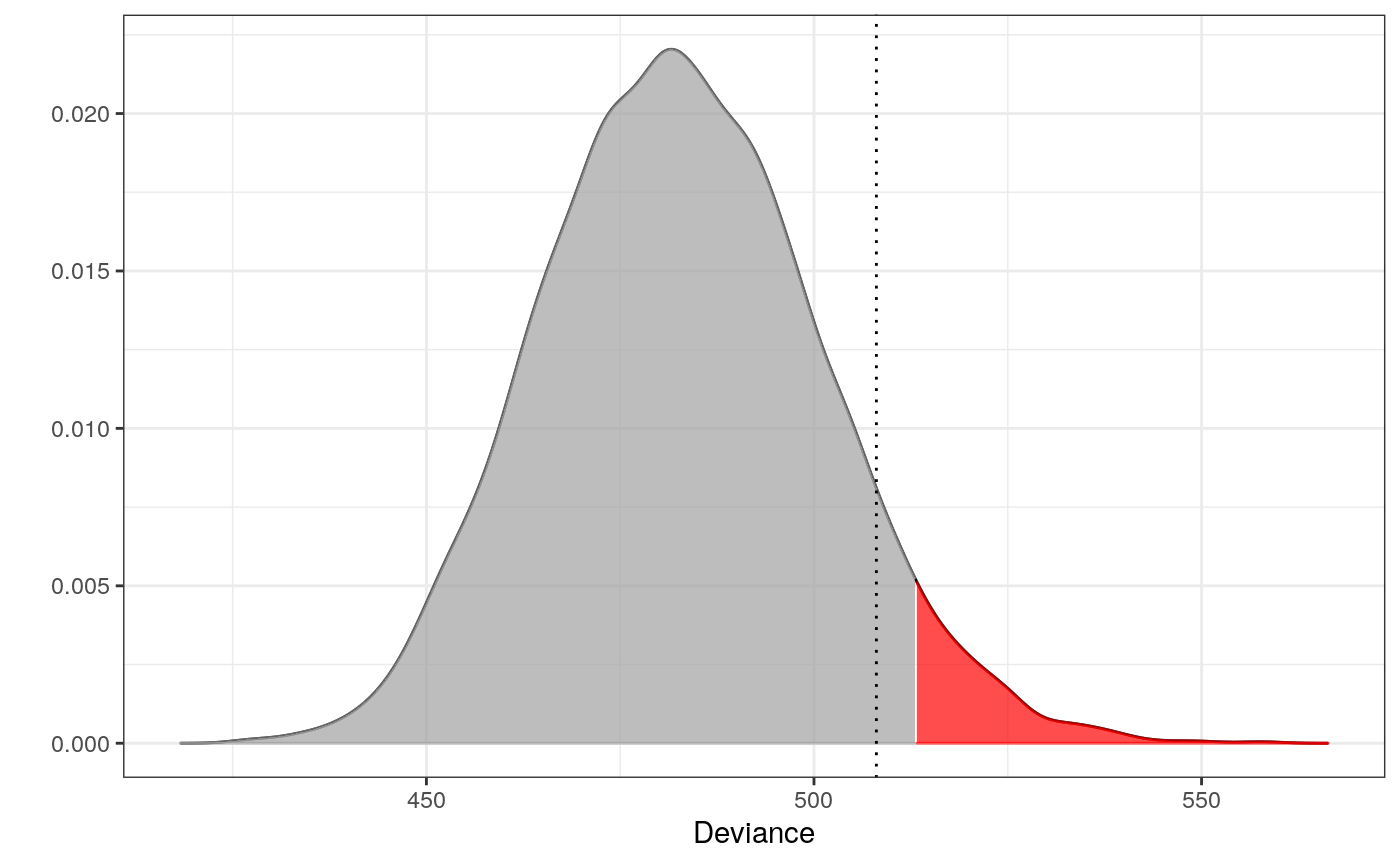
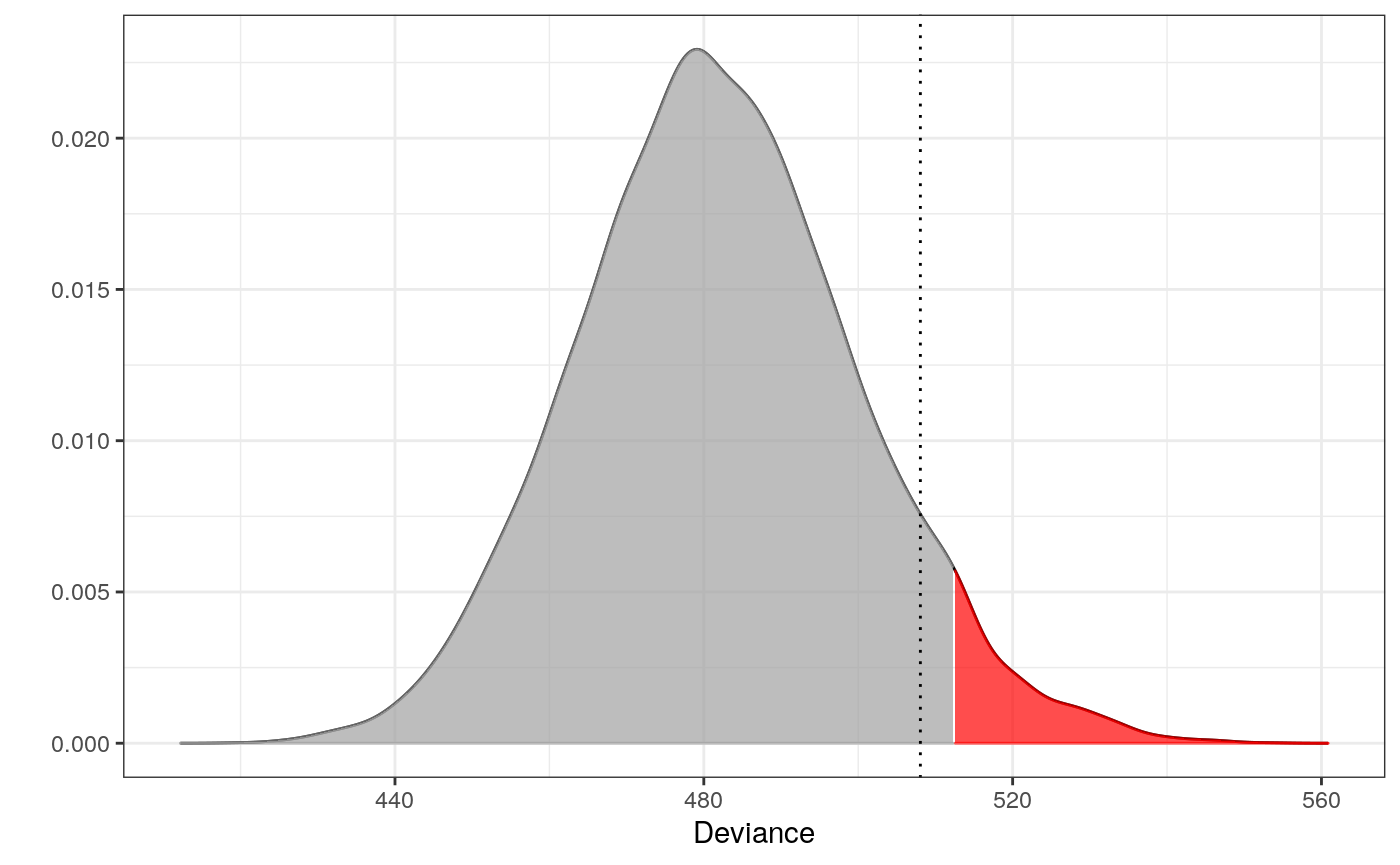
ess dependency fix

diff --git a/docs/index.html b/docs/index.html
@@ -5,13 +5,13 @@
 <meta charset="utf-8">
 <meta http-equiv="X-UA-Compatible" content="IE=edge">
 <meta name="viewport" content="width=device-width, initial-scale=1.0">
-<title>Multivariate Oulier Detection In Contingency Tables • molic</title>
+<title>Multivariate Oulier Detection in Contingency Tables • molic</title>
 <!-- jquery --><script src="https://cdnjs.cloudflare.com/ajax/libs/jquery/3.4.1/jquery.min.js" integrity="sha256-CSXorXvZcTkaix6Yvo6HppcZGetbYMGWSFlBw8HfCJo=" crossorigin="anonymous"></script><!-- Bootstrap --><link href="https://cdnjs.cloudflare.com/ajax/libs/bootswatch/3.4.0/flatly/bootstrap.min.css" rel="stylesheet" crossorigin="anonymous">
 <script src="https://cdnjs.cloudflare.com/ajax/libs/twitter-bootstrap/3.4.1/js/bootstrap.min.js" integrity="sha256-nuL8/2cJ5NDSSwnKD8VqreErSWHtnEP9E7AySL+1ev4=" crossorigin="anonymous"></script><!-- bootstrap-toc --><link rel="stylesheet" href="bootstrap-toc.css">
 <script src="bootstrap-toc.js"></script><!-- Font Awesome icons --><link rel="stylesheet" href="https://cdnjs.cloudflare.com/ajax/libs/font-awesome/5.12.1/css/all.min.css" integrity="sha256-mmgLkCYLUQbXn0B1SRqzHar6dCnv9oZFPEC1g1cwlkk=" crossorigin="anonymous">
 <link rel="stylesheet" href="https://cdnjs.cloudflare.com/ajax/libs/font-awesome/5.12.1/css/v4-shims.min.css" integrity="sha256-wZjR52fzng1pJHwx4aV2AO3yyTOXrcDW7jBpJtTwVxw=" crossorigin="anonymous">
 <!-- clipboard.js --><script src="https://cdnjs.cloudflare.com/ajax/libs/clipboard.js/2.0.6/clipboard.min.js" integrity="sha256-inc5kl9MA1hkeYUt+EC3BhlIgyp/2jDIyBLS6k3UxPI=" crossorigin="anonymous"></script><!-- headroom.js --><script src="https://cdnjs.cloudflare.com/ajax/libs/headroom/0.11.0/headroom.min.js" integrity="sha256-AsUX4SJE1+yuDu5+mAVzJbuYNPHj/WroHuZ8Ir/CkE0=" crossorigin="anonymous"></script><script src="https://cdnjs.cloudflare.com/ajax/libs/headroom/0.11.0/jQuery.headroom.min.js" integrity="sha256-ZX/yNShbjqsohH1k95liqY9Gd8uOiE1S4vZc+9KQ1K4=" crossorigin="anonymous"></script><!-- pkgdown --><link href="pkgdown.css" rel="stylesheet">
-<script src="pkgdown.js"></script><meta property="og:title" content="Multivariate Oulier Detection In Contingency Tables">
+<script src="pkgdown.js"></script><meta property="og:title" content="Multivariate Oulier Detection in Contingency Tables">
 <meta property="og:description" content="The molic package is designed fo outlier detection in, possibly high-dimensional, categorical data.">
 <!-- mathjax --><script src="https://cdnjs.cloudflare.com/ajax/libs/mathjax/2.7.5/MathJax.js" integrity="sha256-nvJJv9wWKEm88qvoQl9ekL2J+k/RWIsaSScxxlsrv8k=" crossorigin="anonymous"></script><script src="https://cdnjs.cloudflare.com/ajax/libs/mathjax/2.7.5/config/TeX-AMS-MML_HTMLorMML.js" integrity="sha256-84DKXVJXs0/F8OTMzX4UR909+jtl4G7SPypPavF+GfA=" crossorigin="anonymous"></script><!--[if lt IE 9]>
 <script src="https://oss.maxcdn.com/html5shiv/3.7.3/html5shiv.min.js"></script>
@@ -140,32 +140,31 @@
 <span class="co">#&gt;   Simulations: 10000 </span>
 <span class="co">#&gt;   Variables: 34 </span>
 <span class="co">#&gt;   Observations: 111 </span>
-<span class="co">#&gt;   Estimated mean: 42.58 </span>
-<span class="co">#&gt;   Estimated variance: 34.51 </span>
+<span class="co">#&gt;   Estimated mean: 43.37 </span>
+<span class="co">#&gt;   Estimated variance: 34.38 </span>
 <span class="co">#&gt;  --------------------------------</span>
-<span class="co">#&gt;   Critical value: 53.24268 </span>
+<span class="co">#&gt;   Critical value: 53.97784 </span>
 <span class="co">#&gt;   Alpha: 0.05 </span>
 <span class="co">#&gt;   &lt;outlier, outlier_model, list&gt; </span>
 <span class="co">#&gt;  --------------------------------</span>
 <span class="no">outs</span>  <span class="kw">&lt;-</span> <span class="fu"><a href="reference/outliers.html">outliers</a></span>(<span class="no">m1</span>, <span class="no">d</span>)
 <span class="no">douts</span> <span class="kw">&lt;-</span> <span class="no">d</span>[<span class="fu"><a href="https://rdrr.io/r/base/which.html">which</a></span>(<span class="no">outs</span>), ]
 <span class="no">douts</span>
-<span class="co">#&gt; # A tibble: 8 x 34</span>
+<span class="co">#&gt; # A tibble: 7 x 34</span>
 <span class="co">#&gt;   c1    c2    c3    c4    c5    c6    c7    c8    c9    c10   c11   h12   h13  </span>
 <span class="co">#&gt;   &lt;chr&gt; &lt;chr&gt; &lt;chr&gt; &lt;chr&gt; &lt;chr&gt; &lt;chr&gt; &lt;chr&gt; &lt;chr&gt; &lt;chr&gt; &lt;chr&gt; &lt;chr&gt; &lt;chr&gt; &lt;chr&gt;</span>
 <span class="co">#&gt; 1 2     1     2     2     2     0     0     0     0     0     0     0     1    </span>
 <span class="co">#&gt; 2 2     2     2     3     3     0     0     0     0     2     0     0     1    </span>
 <span class="co">#&gt; 3 3     3     2     2     1     0     0     0     0     1     0     0     2    </span>
-<span class="co">#&gt; 4 1     1     1     1     1     0     0     0     1     1     0     0     0    </span>
-<span class="co">#&gt; 5 3     2     1     2     2     0     0     0     2     2     0     0     0    </span>
-<span class="co">#&gt; 6 1     1     1     1     1     0     0     0     2     2     0     0     0    </span>
-<span class="co">#&gt; 7 2     3     1     2     1     0     0     0     0     0     0     0     0    </span>
-<span class="co">#&gt; 8 3     2     3     0     0     0     0     0     3     0     0     0     0    </span>
+<span class="co">#&gt; 4 3     2     1     2     2     0     0     0     2     2     0     0     0    </span>
+<span class="co">#&gt; 5 1     1     1     1     1     0     0     0     2     2     0     0     0    </span>
+<span class="co">#&gt; 6 2     3     1     2     1     0     0     0     0     0     0     0     0    </span>
+<span class="co">#&gt; 7 3     2     3     0     0     0     0     0     3     0     0     0     0    </span>
 <span class="co">#&gt; # … with 21 more variables: h14 &lt;chr&gt;, h15 &lt;chr&gt;, h16 &lt;chr&gt;, h17 &lt;chr&gt;,</span>
 <span class="co">#&gt; #   h18 &lt;chr&gt;, h19 &lt;chr&gt;, h20 &lt;chr&gt;, h21 &lt;chr&gt;, h22 &lt;chr&gt;, h23 &lt;chr&gt;,</span>
 <span class="co">#&gt; #   h24 &lt;chr&gt;, h25 &lt;chr&gt;, h26 &lt;chr&gt;, h27 &lt;chr&gt;, h28 &lt;chr&gt;, h29 &lt;chr&gt;,</span>
 <span class="co">#&gt; #   h30 &lt;chr&gt;, h31 &lt;chr&gt;, h32 &lt;chr&gt;, h33 &lt;chr&gt;, age &lt;chr&gt;</span></pre></div>
-<p>Notice that m1 is of class ‘outlier’. This means, that the procedure has tested which observations <em>within</em> the data are outliers. This method is most often just referred to as outlier detection. The following plot is the distribution of the test statistic. Think of a simple t-test, where the distribution of the test statistic is a t-distribution. In order to conclude on the hypothesis, one finds the critical value and verify if the test statistic is greater or less than this.</p>
+<p>Notice that <code>m1</code> is of class ‘outlier’. This means, that the procedure has tested which observations <em>within</em> the data are outliers. This method is most often just referred to as outlier detection. The following plot is the distribution of the test statistic. Think of a simple t-test, where the distribution of the test statistic is a t-distribution. In order to conclude on the hypothesis, one finds the critical value and verify if the test statistic is greater or less than this.</p>
 <div class="sourceCode"><pre class="r"><span class="fu"><a href="https://rdrr.io/r/graphics/plot.html">plot</a></span>(<span class="no">m1</span>)</pre></div>
 <p><img src="reference/figures/README-unnamed-chunk-7-1.png" width="100%"></p>
 <p>Retrieving the test statistic for the individual observations:</p>
@@ -179,9 +178,9 @@
 <span class="co">#&gt; [1] 51.05233</span></pre></div>
 <p>Retrieving the p-values:</p>
 <div class="sourceCode"><pre class="r"><span class="fu"><a href="reference/pval.html">pval</a></span>(<span class="no">m1</span>, <span class="no">dev1</span>)
-<span class="co">#&gt; [1] 0.0101</span>
+<span class="co">#&gt; [1] 0.0103</span>
 <span class="fu"><a href="reference/pval.html">pval</a></span>(<span class="no">m1</span>, <span class="no">dev2</span>)
-<span class="co">#&gt; [1] 0.0848</span></pre></div>
+<span class="co">#&gt; [1] 0.1041</span></pre></div>
 </div>
 <div id="example-2---testing-if-a-new-observation-is-an-outlier" class="section level2">
 <h2 class="hasAnchor">
@@ -200,10 +199,10 @@
 <span class="co">#&gt;   Simulations: 10000 </span>
 <span class="co">#&gt;   Variables: 34 </span>
 <span class="co">#&gt;   Observations: 112 </span>
-<span class="co">#&gt;   Estimated mean: 43.66 </span>
-<span class="co">#&gt;   Estimated variance: 36.86 </span>
+<span class="co">#&gt;   Estimated mean: 42.86 </span>
+<span class="co">#&gt;   Estimated variance: 36.39 </span>
 <span class="co">#&gt;  --------------------------------</span>
-<span class="co">#&gt;   Critical value: 54.64489 </span>
+<span class="co">#&gt;   Critical value: 53.78714 </span>
 <span class="co">#&gt;   Deviance: 77.92978 </span>
 <span class="co">#&gt;   P-value: 0 </span>
 <span class="co">#&gt;   Alpha: 0.05 </span>

diff --git a/docs/reference/fit_outlier.html b/docs/reference/fit_outlier.html
@@ -199,77 +199,7 @@ an adjacency list, just a named <code>list</code>, of their own choice if needed
     <div class='dont-index'><p><code><a href='fit_mixed_outlier.html'>fit_mixed_outlier</a></code>, <code><a href='fit_multiple_models.html'>fit_multiple_models</a></code>, <code><a href='outliers.html'>outliers</a></code></p></div>
 
     <h2 class="hasAnchor" id="examples"><a class="anchor" href="#examples"></a>Examples</h2>
-    <pre class="examples"><div class='input'><span class='kw'>if</span> (<span class='fl'>FALSE</span>) {
-
-<span class='fu'><a href='https://rdrr.io/r/base/library.html'>library</a></span>(<span class='no'>dplyr</span>)
-<span class='fu'><a href='https://rdrr.io/r/base/library.html'>library</a></span>(<span class='no'>ess</span>) <span class='co'># For the fit_graph function</span>
-
-<span class='co'># Psoriasis patients</span>
-<span class='no'>d</span> <span class='kw'>&lt;-</span> <span class='no'>derma</span> <span class='kw'>%&gt;%</span>
-  <span class='fu'><a href='https://dplyr.tidyverse.org/reference/filter.html'>filter</a></span>(<span class='no'>ES</span> <span class='kw'>==</span> <span class='st'>"psoriasis"</span>) <span class='kw'>%&gt;%</span>
-  <span class='fu'><a href='https://dplyr.tidyverse.org/reference/select.html'>select</a></span>(-<span class='no'>ES</span>) <span class='kw'>%&gt;%</span>
-  <span class='fu'><a href='https://dplyr.tidyverse.org/reference/reexports.html'>as_tibble</a></span>()
-
-<span class='co'># Fitting the interaction graph</span>
-<span class='no'>g</span> <span class='kw'>&lt;-</span> <span class='fu'><a href='https://rdrr.io/pkg/ess/man/fit_graph.html'>fit_graph</a></span>(<span class='no'>d</span>, <span class='kw'>trace</span> <span class='kw'>=</span> <span class='fl'>FALSE</span>) <span class='co'># see package ess for details</span>
-
-<span class='co'># -----------------------------------------------------------</span>
-<span class='co'>#                        EXAMPLE 1</span>
-<span class='co'>#    Testing which observations within d are outliers</span>
-<span class='co'># -----------------------------------------------------------</span>
-
-<span class='no'>m1</span> <span class='kw'>&lt;-</span> <span class='fu'>fit_outlier</span>(<span class='no'>d</span>, <span class='no'>g</span>)
-<span class='fu'><a href='https://rdrr.io/r/base/print.html'>print</a></span>(<span class='no'>m1</span>)
-<span class='no'>outs</span>  <span class='kw'>&lt;-</span> <span class='fu'><a href='outliers.html'>outliers</a></span>(<span class='no'>m1</span>, <span class='no'>d</span>)
-<span class='no'>douts</span> <span class='kw'>&lt;-</span> <span class='no'>d</span>[<span class='fu'><a href='https://rdrr.io/r/base/which.html'>which</a></span>(<span class='no'>outs</span>), ]
-<span class='no'>douts</span>
-
-<span class='co'># Notice that m1 is of class 'outlier'. This means, that the procedure has tested which observations</span>
-<span class='co'># _within_ the data are outliers. This method is most often just referred to as outlier detection.</span>
-<span class='co'># The following plot is the distribution of the test statistic. Think of a simple t-test, where the</span>
-<span class='co'># distribution of the test statistic is a t-distribution. In order to conclude on the hypothesis, one</span>
-<span class='co'># finds the critical value and verify if the test statistic is greater or less than this.</span>
-
-<span class='co'># Retrieving the test statistic for the individual observations</span>
-<span class='no'>x1</span> <span class='kw'>&lt;-</span> <span class='no'>douts</span>[<span class='fl'>1</span>, ] <span class='kw'>%&gt;%</span> <span class='fu'><a href='https://rdrr.io/r/base/unlist.html'>unlist</a></span>()
-<span class='no'>x2</span> <span class='kw'>&lt;-</span> <span class='no'>d</span>[<span class='fl'>1</span>, ] <span class='kw'>%&gt;%</span> <span class='fu'><a href='https://rdrr.io/r/base/unlist.html'>unlist</a></span>()
-<span class='no'>dev1</span> <span class='kw'>&lt;-</span> <span class='fu'><a href='deviance.html'>deviance</a></span>(<span class='no'>m1</span>, <span class='no'>x1</span>) <span class='co'># falls within the critical region in the plot (the red area)</span>
-<span class='no'>dev2</span> <span class='kw'>&lt;-</span> <span class='fu'><a href='deviance.html'>deviance</a></span>(<span class='no'>m1</span>, <span class='no'>x2</span>) <span class='co'># falls within the acceptable region in the plot</span>
-
-<span class='no'>dev1</span>
-<span class='no'>dev2</span>
-
-
-<span class='co'># Retrieving the pvalues</span>
-<span class='fu'><a href='pval.html'>pval</a></span>(<span class='no'>m1</span>, <span class='no'>dev1</span>)
-<span class='fu'><a href='pval.html'>pval</a></span>(<span class='no'>m1</span>, <span class='no'>dev2</span>)
-
-<span class='co'># -----------------------------------------------------------</span>
-<span class='co'>#                        EXAMPLE 2</span>
-<span class='co'>#         Testing if a new observation is an outlier</span>
-<span class='co'># -----------------------------------------------------------</span>
-
-<span class='co'># An observation from class "chronic dermatitis"</span>
-<span class='no'>z</span> <span class='kw'>&lt;-</span> <span class='no'>derma</span> <span class='kw'>%&gt;%</span>
-  <span class='fu'><a href='https://dplyr.tidyverse.org/reference/filter.html'>filter</a></span>(<span class='no'>ES</span> <span class='kw'>==</span> <span class='st'>"chronic dermatitis"</span>) <span class='kw'>%&gt;%</span>
-  <span class='fu'><a href='https://dplyr.tidyverse.org/reference/select.html'>select</a></span>(-<span class='no'>ES</span>) <span class='kw'>%&gt;%</span>
-  <span class='fu'><a href='https://dplyr.tidyverse.org/reference/slice.html'>slice</a></span>(<span class='fl'>1</span>) <span class='kw'>%&gt;%</span>
-  <span class='fu'><a href='https://rdrr.io/r/base/unlist.html'>unlist</a></span>()
-
-<span class='co'># Test if z is an outlier in class "psoriasis"</span>
-<span class='no'>m2</span> <span class='kw'>&lt;-</span> <span class='fu'>fit_outlier</span>(<span class='no'>d</span>, <span class='no'>g</span>, <span class='no'>z</span>)
-<span class='fu'><a href='https://rdrr.io/r/base/print.html'>print</a></span>(<span class='no'>m2</span>)
-<span class='fu'><a href='https://rdrr.io/r/graphics/plot.html'>plot</a></span>(<span class='no'>m2</span>) <span class='co'># The vertical dotted line indicates the (deviance) test statistic of z</span>
-
-<span class='co'># Notice that m2 is of class 'novelty'. The term novelty detection</span>
-<span class='co'># is sometimes used in the litterature when the goal is to verify</span>
-<span class='co'># if a new unseen observation is an outlier in a homogen dataset.</span>
-
-<span class='co'># Retrieving the test statistic and pvalue for z</span>
-<span class='no'>dz</span> <span class='kw'>&lt;-</span> <span class='fu'><a href='deviance.html'>deviance</a></span>(<span class='no'>m2</span>, <span class='no'>z</span>)
-<span class='fu'><a href='pval.html'>pval</a></span>(<span class='no'>m2</span>, <span class='no'>dz</span>)
-
-}</div></pre>
+    <pre class="examples"></pre>
   </div>
   <div class="col-md-3 hidden-xs hidden-sm" id="pkgdown-sidebar">
     <nav id="toc" data-toggle="toc" class="sticky-top">

diff --git a/docs/articles/dermatitis.html b/docs/articles/dermatitis.html
@@ -154,13 +154,8 @@ H_6: &amp; y \text{ has pityriasis rubra pilaris}
   <span class="fu"><a href="https://dplyr.tidyverse.org/reference/filter.html">filter</a></span>(<span class="no">ES</span> <span class="kw">==</span> <span class="st">"psoriasis"</span>) <span class="kw">%&gt;%</span>
   <span class="kw pkg">dplyr</span><span class="kw ns">::</span><span class="fu"><a href="https://dplyr.tidyverse.org/reference/select.html">select</a></span>(-<span class="no">ES</span>)</pre></body></html></div>
 <p>Next, we fit the interaction graph for the psoriasis patients:</p>
-<div class="sourceCode"><html><body><pre class="r"><span class="fu"><a href="https://rdrr.io/r/base/library.html">library</a></span>(<span class="no">ess</span>)</pre></body></html></div>
-<pre><code>## 
-## Attaching package: 'ess'</code></pre>
-<pre><code>## The following object is masked from 'package:molic':
-## 
-##     to_single_chars</code></pre>
-<div class="sourceCode"><html><body><pre class="r"><span class="no">g</span> <span class="kw">&lt;-</span> <span class="fu"><a href="https://rdrr.io/pkg/ess/man/fit_graph.html">fit_graph</a></span>(<span class="no">psor</span>, <span class="kw">q</span> <span class="kw">=</span> <span class="fl">0</span>, <span class="kw">trace</span> <span class="kw">=</span> <span class="fl">FALSE</span>)</pre></body></html></div>
+<div class="sourceCode"><html><body><pre class="r"><span class="fu"><a href="https://rdrr.io/r/base/library.html">library</a></span>(<span class="no">ess</span>)
+<span class="no">g</span> <span class="kw">&lt;-</span> <span class="fu"><a href="https://rdrr.io/pkg/ess/man/fit_graph.html">fit_graph</a></span>(<span class="no">psor</span>, <span class="kw">q</span> <span class="kw">=</span> <span class="fl">0</span>, <span class="kw">trace</span> <span class="kw">=</span> <span class="fl">FALSE</span>)</pre></body></html></div>
 <p>We can color the nodes corresponding to clinical attributes (red), histopathological attributes (green) and the age variable (gray):</p>
 <div class="sourceCode"><html><body><pre class="r"><span class="no">vs</span>   <span class="kw">&lt;-</span> <span class="fu"><a href="https://rdrr.io/r/base/names.html">names</a></span>(<span class="fu"><a href="https://rdrr.io/pkg/ess/man/adj_lst.html">adj_lst</a></span>(<span class="no">g</span>))
 <span class="no">vcol</span> <span class="kw">&lt;-</span> <span class="fu"><a href="https://rdrr.io/r/base/structure.html">structure</a></span>(<span class="fu"><a href="https://rdrr.io/r/base/vector.html">vector</a></span>(<span class="st">"character"</span>, <span class="fu"><a href="https://rdrr.io/r/base/length.html">length</a></span>(<span class="no">vs</span>)), <span class="kw">names</span> <span class="kw">=</span> <span class="no">vs</span>)

diff --git a/docs/articles/outlier_intro.html b/docs/articles/outlier_intro.html
@@ -142,12 +142,12 @@
 <tr class="odd">
 <td align="center">Rejected</td>
 <td align="center">Male</td>
-<td align="center">F</td>
+<td align="center">A</td>
 </tr>
 <tr class="even">
-<td align="center">Rejected</td>
-<td align="center">Female</td>
-<td align="center">D</td>
+<td align="center">Admitted</td>
+<td align="center">Male</td>
+<td align="center">A</td>
 </tr>
 <tr class="odd">
 <td align="center">Admitted</td>
@@ -155,9 +155,9 @@
 <td align="center">C</td>
 </tr>
 <tr class="even">
-<td align="center">Admitted</td>
-<td align="center">Female</td>
-<td align="center">A</td>
+<td align="center">Rejected</td>
+<td align="center">Male</td>
+<td align="center">F</td>
 </tr>
 <tr class="odd">
 <td align="center">Admitted</td>
@@ -165,9 +165,9 @@
 <td align="center">A</td>
 </tr>
 <tr class="even">
-<td align="center">Admitted</td>
+<td align="center">Rejected</td>
 <td align="center">Male</td>
-<td align="center">B</td>
+<td align="center">F</td>
 </tr>
 </tbody>
 </table>

diff --git a/docs/articles/genetic_example.html b/docs/articles/genetic_example.html
@@ -164,12 +164,12 @@
 ##   Simulations: 10000 
 ##   Variables: 302 
 ##   Observations: 1008 
-##   Estimated mean: 482.84 
-##   Estimated variance: 324.11 
+##   Estimated mean: 481.87 
+##   Estimated variance: 323.94 
 ##  --------------------------------
-##   Critical value: 513.0355 
+##   Critical value: 512.4727 
 ##   Deviance: 508.0499 
-##   P-value: 0.082 
+##   P-value: 0.0784 
 ##   Alpha: 0.05 
 ##   &lt;mixed_outlier, novelty, outlier_model, list&gt; 
 ##  --------------------------------</code></pre>

diff --git a/README.md b/README.md
@@ -15,7 +15,6 @@ Installation
 You can install the current stable release of the package by using the `devtools` package:
 
 ``` r
-devtools::install_github("mlindsk/ess", build_vignettes = FALSE)   # ess will soon be on CRAN and this will not be needed then
 devtools::install_github("mlindsk/molic", build_vignettes = FALSE)
 ```
 
@@ -67,34 +66,33 @@ print(m1)
 #>   Simulations: 10000 
 #>   Variables: 34 
 #>   Observations: 111 
-#>   Estimated mean: 43.4 
-#>   Estimated variance: 34.4 
+#>   Estimated mean: 43.37 
+#>   Estimated variance: 34.38 
 #>  --------------------------------
-#>   Critical value: 53.83349 
+#>   Critical value: 53.97784 
 #>   Alpha: 0.05 
 #>   <outlier, outlier_model, list> 
 #>  --------------------------------
 outs  <- outliers(m1, d)
 douts <- d[which(outs), ]
 douts
-#> # A tibble: 8 x 34
+#> # A tibble: 7 x 34
 #>   c1    c2    c3    c4    c5    c6    c7    c8    c9    c10   c11   h12   h13  
 #>   <chr> <chr> <chr> <chr> <chr> <chr> <chr> <chr> <chr> <chr> <chr> <chr> <chr>
 #> 1 2     1     2     2     2     0     0     0     0     0     0     0     1    
 #> 2 2     2     2     3     3     0     0     0     0     2     0     0     1    
 #> 3 3     3     2     2     1     0     0     0     0     1     0     0     2    
-#> 4 1     1     1     1     1     0     0     0     1     1     0     0     0    
-#> 5 3     2     1     2     2     0     0     0     2     2     0     0     0    
-#> 6 1     1     1     1     1     0     0     0     2     2     0     0     0    
-#> 7 2     3     1     2     1     0     0     0     0     0     0     0     0    
-#> 8 3     2     3     0     0     0     0     0     3     0     0     0     0    
+#> 4 3     2     1     2     2     0     0     0     2     2     0     0     0    
+#> 5 1     1     1     1     1     0     0     0     2     2     0     0     0    
+#> 6 2     3     1     2     1     0     0     0     0     0     0     0     0    
+#> 7 3     2     3     0     0     0     0     0     3     0     0     0     0    
 #> # … with 21 more variables: h14 <chr>, h15 <chr>, h16 <chr>, h17 <chr>,
 #> #   h18 <chr>, h19 <chr>, h20 <chr>, h21 <chr>, h22 <chr>, h23 <chr>,
 #> #   h24 <chr>, h25 <chr>, h26 <chr>, h27 <chr>, h28 <chr>, h29 <chr>,
 #> #   h30 <chr>, h31 <chr>, h32 <chr>, h33 <chr>, age <chr>
 ```
 
-Notice that m1 is of class 'outlier'. This means, that the procedure has tested which observations *within* the data are outliers. This method is most often just referred to as outlier detection. The following plot is the distribution of the test statistic. Think of a simple t-test, where the distribution of the test statistic is a t-distribution. In order to conclude on the hypothesis, one finds the critical value and verify if the test statistic is greater or less than this.
+Notice that `m1` is of class 'outlier'. This means, that the procedure has tested which observations *within* the data are outliers. This method is most often just referred to as outlier detection. The following plot is the distribution of the test statistic. Think of a simple t-test, where the distribution of the test statistic is a t-distribution. In order to conclude on the hypothesis, one finds the critical value and verify if the test statistic is greater or less than this.
 
 ``` r
 plot(m1) 
@@ -119,9 +117,9 @@ Retrieving the p-values:
 
 ``` r
 pval(m1, dev1)
-#> [1] 0.0112
+#> [1] 0.0103
 pval(m1, dev2)
-#> [1] 0.1
+#> [1] 0.1041
 ```
 
 Example 2 - Testing if a new observation is an outlier
@@ -147,10 +145,10 @@ print(m2)
 #>   Simulations: 10000 
 #>   Variables: 34 
 #>   Observations: 112 
-#>   Estimated mean: 42.89 
-#>   Estimated variance: 35.94 
+#>   Estimated mean: 42.86 
+#>   Estimated variance: 36.39 
 #>  --------------------------------
-#>   Critical value: 53.75469 
+#>   Critical value: 53.78714 
 #>   Deviance: 77.92978 
 #>   P-value: 0 
 #>   Alpha: 0.05 
